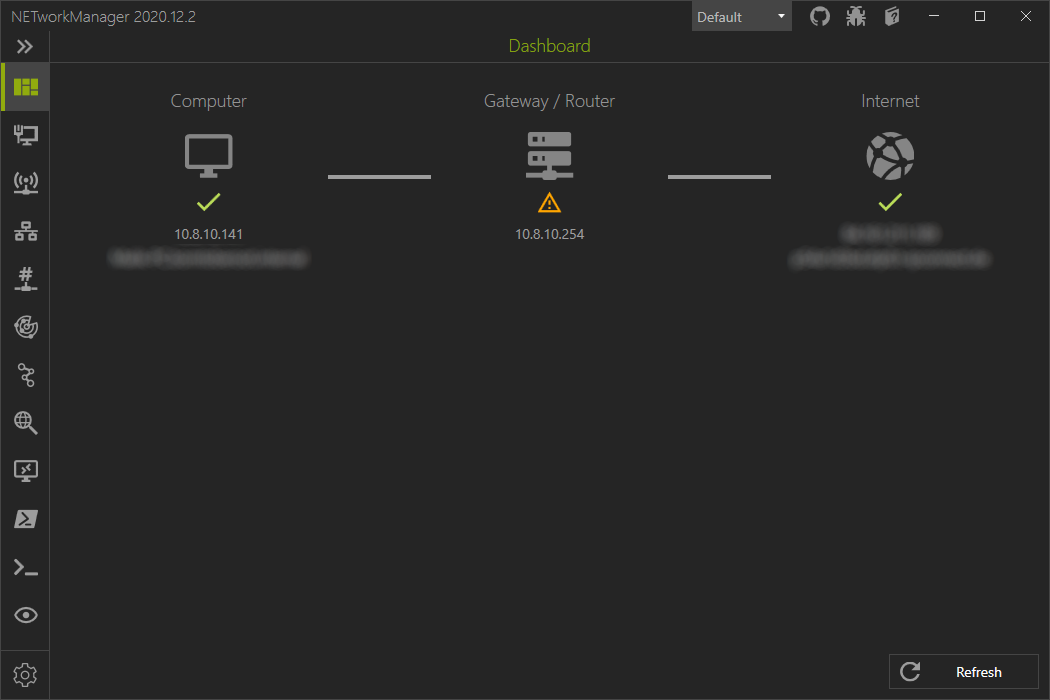
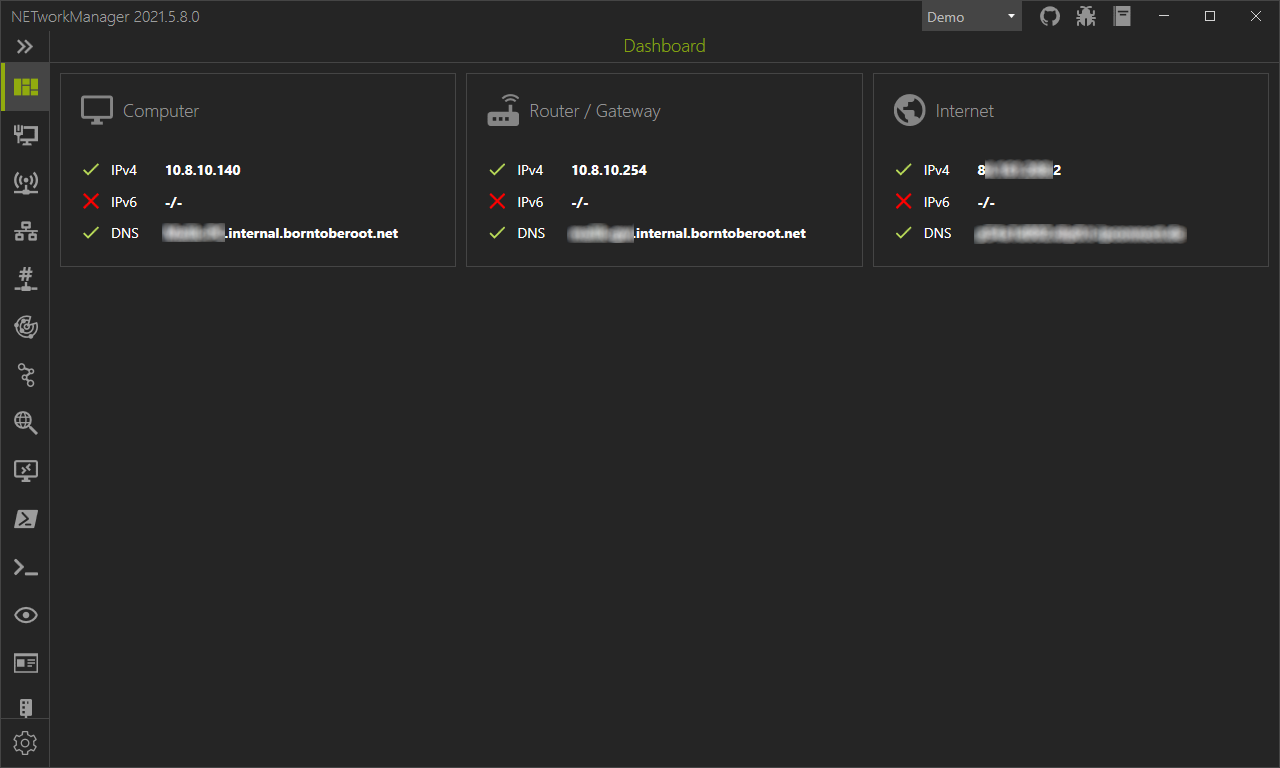
Update docs

diff --git a/docs/Documentation/01_Application/01_Dashboard.md b/docs/Documentation/01_Application/01_Dashboard.md
@@ -9,56 +9,41 @@ permalink: /Documentation/Application/Dashboard
 ---
 
 # Dashboard
-The dashboard checks automatically and at every status change of the local network adapters (network cable plugged in, WLAN connected, etc.) if there is a connection to the Internet.
-
-First it checks if the local tcp/ip stack is available by sending an ICMP package to `127.0.0.1`. Then the local IP address of the computer is determined based on the local routing. For this the IP address from the [Public ICMP test IP address](#public-icmp-test-ip-address) setting is used. If you have multiple connections to the Internet (e.g. Ethernet and WLAN) the one with the highest metric is used.
-
-The local IP address is used to find out the IP address of the gateway based on the network adapter configuration. To check if the gateway is available, an ICMP packet is sent to this IP address.
-
-To check if the internet connection is established and working, an ICMP package is sent to a public IP address configured in the [Public ICMP test IP address](#public-icmp-test-ip-address) setting. It also checks whether a public DNS A record can be resolved using the [Public DNS test domain](#public-dns-test-domain) setting and a DNS PTR record using the [Public DNS test IP address](#public-dns-test-ip-address) setting. The public IP address is determined with a WebRequest to [api.ipify.org](https://www.ipify.org/){:target="_blank"}.
-
-For each IP address, an attempt is made to resolve the DNS record. The windows dns settings are used for this.
+The dashboard checks automatically and whenever the status of the local network adapters changes (network cable plugged in, WLAN connected, etc.) whether there is a connection to the router and the Internet.
 
 ![Dashboard](01_Dashboard.png)
 
 ## Settings
 
-### Public ICMP test IP address
-A public IP address that is reachable via ICMP.
+### Public IPv4 address
+A public IPv4 address that is reachable via ICMP.
 
-**Default** 
-```
-1.1.1.1
-```
+**Default:** `1.1.1.1`
 
-### Public DNS test domain
-A public domain that resolves an A record.
+### Public IPv6 address
+A public IPv6 address that is reachable via ICMP.
 
-**Default**
-```
-one.one.one.one
-```
-
-### Public DNS test IP address
-A public IP address that resolves a PTR record.
-
-**Default** 
-```
-1.1.1.1
-```
+**Default:** `2606:4700:4700::1111`
 
 ### Check public IP address
-Enables or disables the resolution of the public IP address via [api.ipify.org](https://www.ipify.org/){:target="_blank"}.
+Enables or disables the resolution of the public IP address via [api.ipify.org](https://www.ipify.org/){:target="_blank"} and [api6.ipify.org](https://www.ipify.org/){:target="_blank"}.
 
-**Default** 
-```
-Enabled
-```
+**Default:** `Enabled`
 
-### Use custom API
-Override the default API to resolve the public IP address. The API should return only a plain text IPv4 address like `xx.xx.xx.xx`.
+### Use custom IPv4 address API
+Override the default IPv4 address API to resolve the public IP address. The API should return only a plain text IPv4 address like `xx.xx.xx.xx`.
 
-**Examples** 
-- [api.ipify.org](https://www.ipify.org/){:target="_blank"}
+**Default:** `Disabled` 
+
+**Examples Values** 
+- [api.ipify.org](https://api.ipify.org/){:target="_blank"}
 - [ip4.seeip.org](https://ip4.seeip.org/){:target="_blank"}
 - [api.my-ip.io/ip](https://api.my-ip.io/ip){:target="_blank"}
+
+### Use custom IPv6 address API
+Override the default IPv6 address API to resolve the public IP address. The API should return only a plain text IPv6 address like `xxxx:xx:xxx::xx`.
+
+**Default:** `Disabled` 
+
+**Examples Values** 
+- [api6.ipify.org](https://api6.ipify.org/){:target="_blank"}
